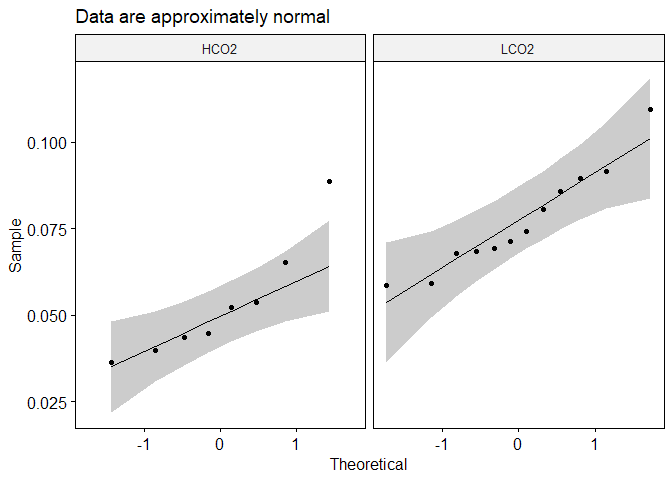
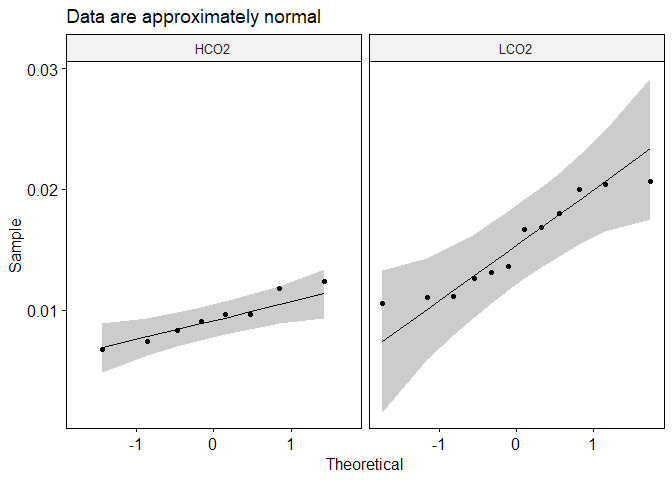
update Post

diff --git a/_posts/2022-06-20-LangdonSkeletonAnalysis.md b/_posts/2022-06-20-LangdonSkeletonAnalysis.md
@@ -20,6 +20,7 @@ knit: (function(inputFile, encoding) {
 always_allow_html: true
 ---
 
+
 <script type="text/javascript">
 function verify() {
   if (document.getElementById('password').value === 'acidification') {
@@ -426,11 +427,11 @@ section.
 
 It is important to remember that the skeletal density is also a factor
 of the coral’s growth and not solely its treatment group. Therefore, we
-should standardize the density of the new material to its vertical
-growth to subtract the variability of the coral’s growth from its
-treatment effect. When this is done, we begin to see significant
-differences in standardized skeletal density among treatment groups both
-in the New Growth and Old Growth materials.
+should standardize the density to a metric reflective of the coral’s
+influence on its vertical growth to subtract the variability of the
+coral’s growth from its treatment effect. When this is done, we begin to
+see significant differences in standardized skeletal density among
+treatment groups both in the New Growth and Old Growth materials.
 
 ## Statistical Testing
 
@@ -441,17 +442,17 @@ in the New Growth and Old Growth materials.
     ## # A tibble: 2 x 4
     ##   treatment variable    statistic     p
     ##   <chr>     <chr>           <dbl> <dbl>
-    ## 1 HCO2      density.std     0.863 0.130
-    ## 2 LCO2      density.std     0.934 0.421
+    ## 1 HCO2      density.std     0.947 0.686
+    ## 2 LCO2      density.std     0.898 0.150
 
     ## # A tibble: 1 x 4
-    ##     df1   df2 statistic     p
-    ##   <int> <int>     <dbl> <dbl>
-    ## 1     1    18   0.00823 0.929
+    ##     df1   df2 statistic       p
+    ##   <int> <int>     <dbl>   <dbl>
+    ## 1     1    18      8.91 0.00795
 
 <table class=" lightable-classic" style="font-family: &quot;Arial Narrow&quot;, &quot;Source Sans Pro&quot;, sans-serif; margin-left: auto; margin-right: auto;">
 <caption>
-T-Test Results of Standardized Density of Both Materials
+Welch’s T-Test Results of Standardized Density of Both Materials
 </caption>
 <thead>
 <tr>
@@ -499,13 +500,13 @@ LCO2
 12
 </td>
 <td style="text-align:center;">
--3.364
+-4.628
 </td>
 <td style="text-align:center;">
-18
+17.168
 </td>
 <td style="text-align:center;">
-0.003
+0
 </td>
 </tr>
 </tbody>
@@ -551,7 +552,7 @@ HCO2
 LCO2
 </td>
 <td style="text-align:center;">
-2.182
+1.974
 </td>
 <td style="text-align:center;">
 8
@@ -566,6 +567,11 @@ large
 </tbody>
 </table>
 
+The mean standardized density in the HCO2 group was 0.01 (SD = 0),
+whereas the mean in LCO2 group was 0.02 (SD = 0). A Welch’s two-samples
+t-test showed that the difference was statistically significant,
+t(17.17) = -4.628, p &lt; 0.001, d = 1.974.
+
 ### New Growth
 
 Now, let’s just analyze the new growth material.
@@ -573,15 +579,15 @@ Now, let’s just analyze the new growth material.
 ![](/notebook/images/unnamed-chunk-5-1.png)<!-- -->
 
     ## # A tibble: 2 x 4
-    ##   treatment variable    statistic     p
-    ##   <chr>     <chr>           <dbl> <dbl>
-    ## 1 HCO2      density.std     0.873 0.308
-    ## 2 LCO2      density.std     0.887 0.305
+    ##   treatment variable    statistic      p
+    ##   <chr>     <chr>           <dbl>  <dbl>
+    ## 1 HCO2      density.std     0.943 0.674 
+    ## 2 LCO2      density.std     0.794 0.0522
 
     ## # A tibble: 1 x 4
-    ##     df1   df2 statistic     p
-    ##   <int> <int>     <dbl> <dbl>
-    ## 1     1     8    0.0140 0.909
+    ##     df1   df2 statistic        p
+    ##   <int> <int>     <dbl>    <dbl>
+    ## 1     1     8      32.8 0.000440
 
 <table class=" lightable-classic" style="font-family: &quot;Arial Narrow&quot;, &quot;Source Sans Pro&quot;, sans-serif; margin-left: auto; margin-right: auto;">
 <caption>
@@ -633,13 +639,13 @@ LCO2
 6
 </td>
 <td style="text-align:center;">
--2.88
+-3.615
 </td>
 <td style="text-align:center;">
-8
+6.713
 </td>
 <td style="text-align:center;">
-0.02
+0.009
 </td>
 </tr>
 </tbody>
@@ -685,7 +691,7 @@ HCO2
 LCO2
 </td>
 <td style="text-align:center;">
-2.057
+1.832
 </td>
 <td style="text-align:center;">
 4
@@ -700,20 +706,10 @@ large
 </tbody>
 </table>
 
-### Both Materials
-
-The mean standardized density in the HCO2 group was 0.05 (SD = 0.02),
-whereas the mean in LCO2 group was 0.08 (SD = 0.01). A Student
-two-samples t-test showed that the difference was statistically
-significant, t(18) = -3.364, p &lt; 0.01, d = 2.18.
-
-### New Growth
-
 When looking at just the new growth, the mean standardized density in
-the HCO2 group was 0.05 (SD = 0.01), whereas the mean in LCO2 group was
-0.07 (SD = 0.01). A Student two-samples t-test showed that the
-difference was statistically significant, t(8) = -2.88, p &lt; 0.05, d =
-2.06.
+the HCO2 group was 0.01 (SD = 0), whereas the mean in LCO2 group was
+0.01 (SD = 0). A Welch’s two-samples t-test showed that the difference
+was statistically significant, t(6.71) = -3.62, p &lt; 0.01, d = 1.832.
 
 # Genotype Variability
 
@@ -728,14 +724,13 @@ P-Lirman grown under LCO2 conditions and compare it to all LCO2 corals
     ##  Bartlett test of homogeneity of variances
     ## 
     ## data:  density.std by genotype
-    ## Bartlett's K-squared = 2.6368, df = 1, p-value = 0.1044
+    ## Bartlett's K-squared = 5.9302, df = 1, p-value = 0.01488
 
 From this data, the variance of standardized skeletal density among the
 genotype P-Lirman is certainly less than the variance of the population,
-yet there is no statistically significant difference between these two
-groups. This is possibly driven by the small sample size (n=3 for
-P-Lirman and n=6 for total population). However, I am shying away from
-making any claims of genotypic variability due to the small sample sizes
-and lack of genotype replication throughout the experiment design.
+and there is a statistically significant difference between these two
+groups’ variances. However, I am shying away from making any claims of
+genotypic variability due to the small sample sizes and lack of genotype
+replication throughout the experiment design.
 
 </div>
